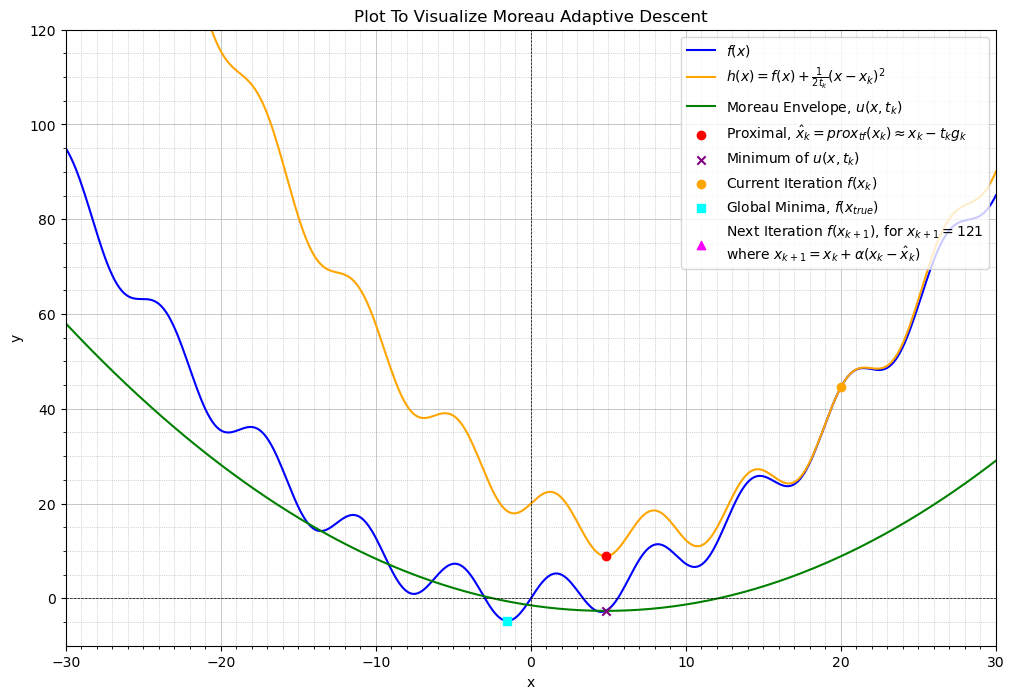
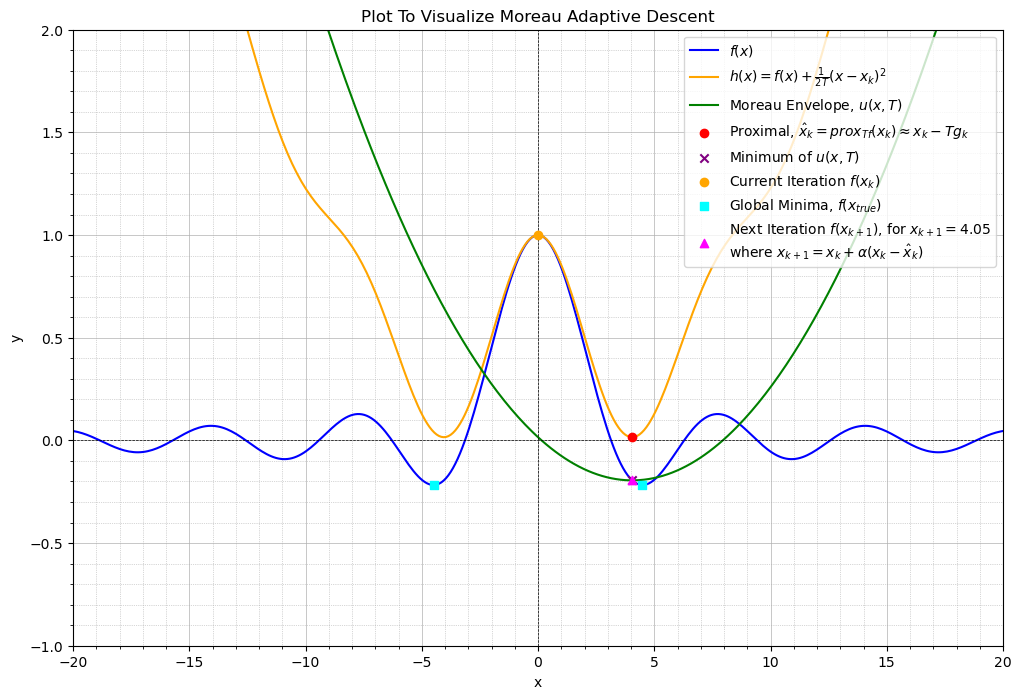
interactive plot improved

diff --git a/test_functions1D.py b/test_functions1D.py
@@ -4,7 +4,7 @@ import numpy as np
 # 1D functions
 # Sine function
 def Sin(x):
-    return torch.sin(5*x)
+    return torch.sin(x)
 
 def Sinc(x):
     return torch.where(x == 0, torch.tensor(1.0), torch.sin(x) / x)
@@ -15,7 +15,7 @@ def MultiMinimaFunc(x):
 
 # ----------------- Numpy Versions -----------------
 def Sin_numpy(x):
-    return np.sin(5*x)
+    return np.sin(x)
 
 def Sinc_numpy(x):
     return np.sinc(x / np.pi)  # np.sinc is normalized as sin(pi*x)/(pi*x)
